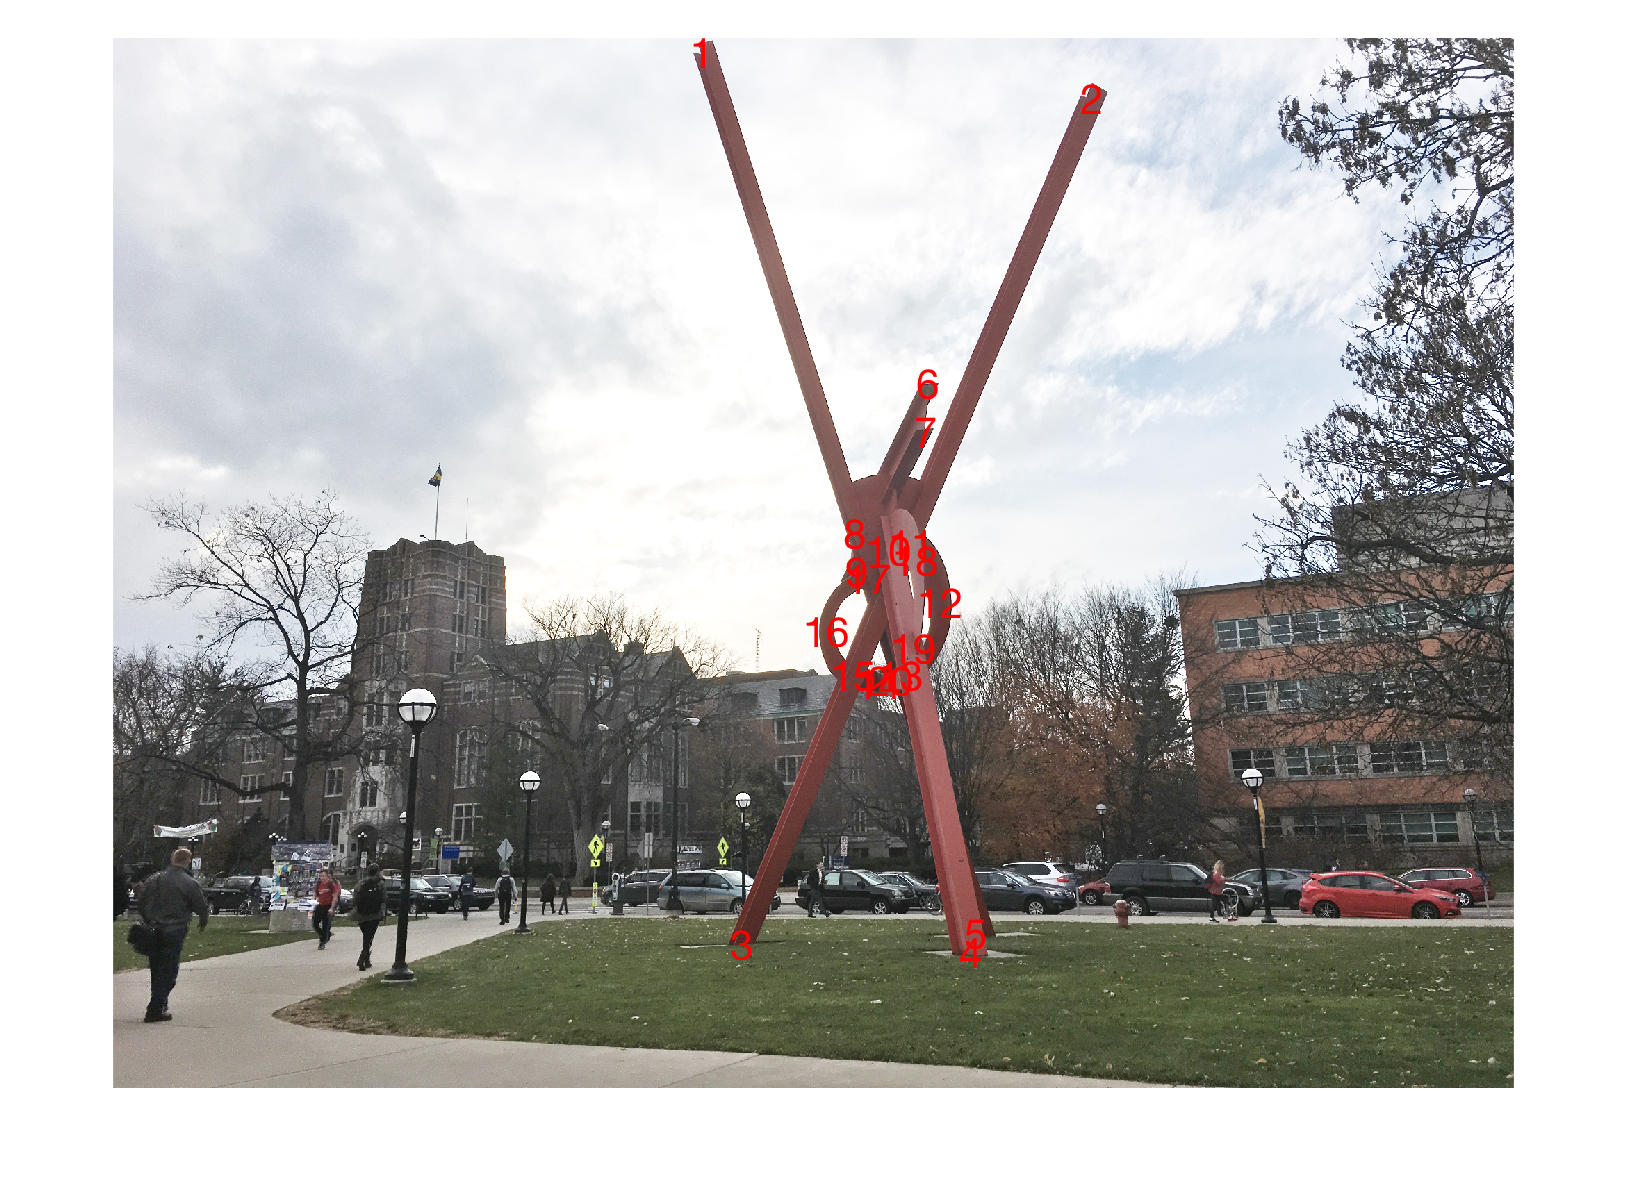
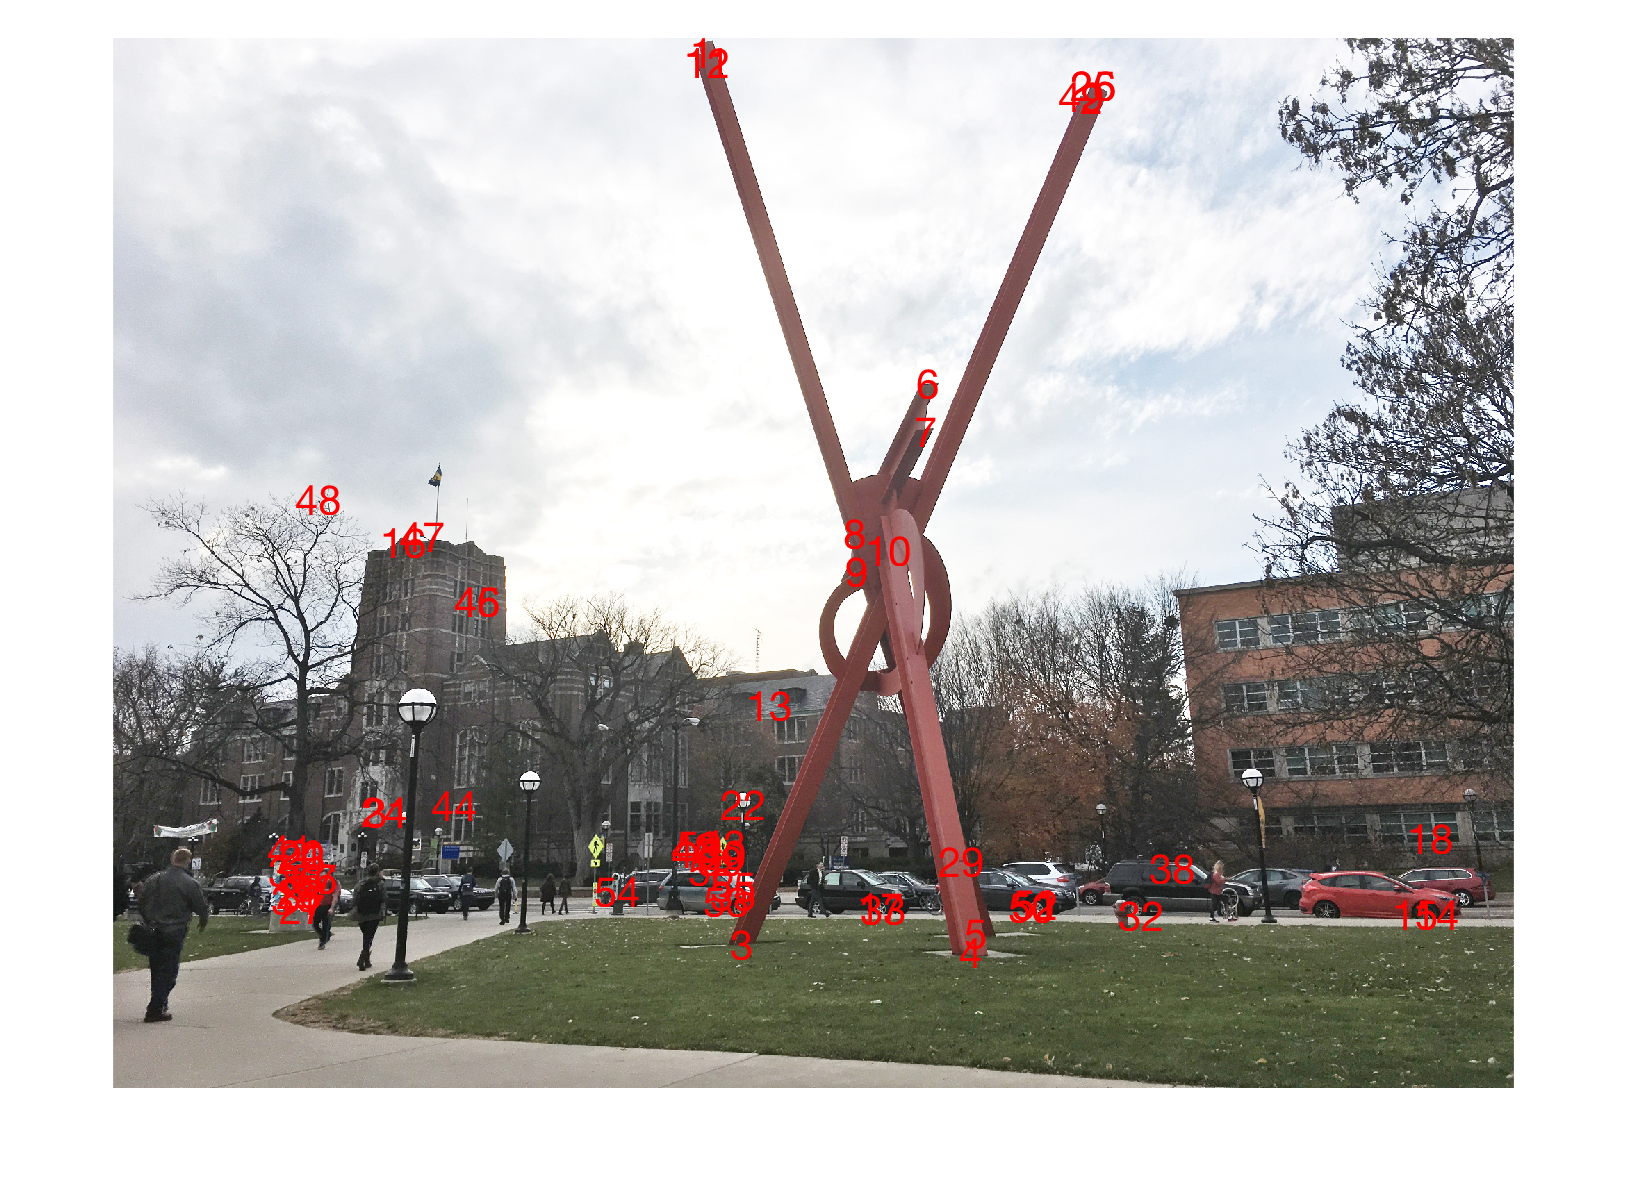
coloring done

diff --git a/visualize_orion.m b/visualize_orion.m
@@ -1,4 +1,4 @@
-function visualize_orion(real_X,M)
+function visualize_orion(real_X,M,data_spec,color_points)
 %VISUALIZE Summary of this function goes here
 %   Detailed explanation goes here
     f = figure;
@@ -6,22 +6,24 @@ function visualize_orion(real_X,M)
     l = info.lines_to_draw;
     global plot_cell;
     plot_cell = cell(length(real_X) + length(l),1);
-    fprintf('In vis\n');
-    redraw(real_X,M)
+    global expanded_color
+    expanded_color=expand_color(color_points,data_spec,real_X);
+    
+    redraw(real_X,M,data_spec);
     hold off;
     
     global theta;
     theta = zeros(3,1);
     uicontrol(f,'Style','slider','Min',-180,'Max',180,'Value',0,...
                 'SliderStep',[0.05 0.2],'Position',...
-                [30, 20, 30, 500], 'Callback', {@sliderx, real_X,M});
+                [30, 20, 30, 500], 'Callback', {@sliderx, real_X,M,data_spec});
     
     uicontrol(f,'Style','slider','Min',-180,'Max',180,'Value',0,...
                 'SliderStep',[0.05 0.2], 'Position',...
-                [65, 20, 30, 500], 'Callback', {@slidery, real_X,M});            
+                [65, 20, 30, 500], 'Callback', {@slidery, real_X,M,data_spec});            
     uicontrol(f,'Style','slider','Min',-180,'Max',180,'Value',0,...
                 'SliderStep',[0.05 0.2], 'Position',...
-                [100, 20, 30, 500], 'Callback', {@sliderz, real_X,M}); 
+                [100, 20, 30, 500], 'Callback', {@sliderz, real_X,M,data_spec}); 
             
             
 end

diff --git a/redraw.m b/redraw.m
@@ -1,4 +1,4 @@
-function plot_cell=redraw(real_X,M)
+function redraw(real_X,M,data_spec)
 %close all
 %plot_cell{1} = scatter3(real_X(1,:),real_X(2,:),real_X(3,:));
 global plot_cell;
@@ -25,8 +25,9 @@ for i=1:length(lines_to_draw)
     l=[real_X(:,lines_to_draw(1,i)),real_X(:,lines_to_draw(2,i))];
     plot_cell{i} = line(l(1,:),l(2,:),l(3,:),'LineWidth',4,'Color','r');
 end
+global expanded_color
 for j=1:length(real_X)
-    plot_cell{j+length(lines_to_draw)} = scatter3(real_X(1,j),real_X(2,j),real_X(3,j));
+    plot_cell{j+length(lines_to_draw)} = scatter3(real_X(1,j),real_X(2,j),real_X(3,j),15,expanded_color(j,:),'filled');
     hold on
 end
 meadow_base=[];
@@ -42,6 +43,4 @@ end
 %     fill3(c(1,:),c(2,:),c(3,:),'g');
 % end
 hold off;
-fprintf('In redraw\n');
-plot_cell
 end

diff --git a/sliderx.m b/sliderx.m
@@ -1,18 +1,10 @@
-function plot_cell=sliderx(source, event, real_X,M)
+function sliderx(source, event, real_X,M,data_spec)
 %SLIDERX Summary of this function goes here
 %   Detailed explanation goes here
     global theta;
     theta(1) = source.Value;
     w_x = rotxd(theta(1)) * rotyd(theta(2)) * rotzd(theta(3)) *real_X;
-    info = draw_line_orion();
-    l = info.lines_to_draw;
-%     for i=1:length(plot_cell)
-%         fprintf('deleting')
-%         plot_cell{i}
-%         %delete(plot_cell{i});
-%     end
-    %plot_cell = cell(length(real_X) + length(l),1);
-    redraw(w_x,M);
+    redraw(w_x,M,data_spec);
     
 end
 

diff --git a/slidery.m b/slidery.m
@@ -1,16 +1,10 @@
-function plot_cell=slidery( source, event, real_X,M)
+function slidery( source, event, real_X,M,data_spec)
 %SLIDERY Summary of this function goes here
 %   Detailed explanation goes here
     global theta;
     theta(2) = source.Value;
     w_x = rotxd(theta(1)) * rotyd(theta(2)) * rotzd(theta(3)) *real_X;
-    info = draw_line_orion();
-    l = info.lines_to_draw;
-%     for i=1:length(plot_cell)
-%         delete(plot_cell{i});
-%     end
-    %plot_cell = cell(length(real_X) + length(l),1);
-    redraw(w_x,M);
+    redraw(w_x,M,data_spec);
     
 end
 

diff --git a/sliderz.m b/sliderz.m
@@ -1,16 +1,10 @@
-function plot_cell=sliderz( source, event, real_X, M)
+function sliderz( source, event, real_X, M,data_spec)
 %SLIDERZ Summary of this function goes here
 %   Detailed explanation goes here
     global theta;
     theta(3) = source.Value;
     w_x = rotxd(theta(1)) * rotyd(theta(2)) * rotzd(theta(3)) *real_X;
-    info = draw_line_orion();
-    l = info.lines_to_draw;
-%     for i=1:length(plot_cell)
-%         delete(plot_cell{i});
-%     end
-    %plot_cell = cell(length(real_X) + length(l),1);
-    redraw(w_x,M);
+    redraw(w_x,M,data_spec);
 
 end
 

diff --git a/expand_color.m b/expand_color.m
@@ -1,0 +1,16 @@
+function ret=expand_color(color_points,data_spec,real_X)
+
+ret=real_X'*0;
+cut=data_spec.common_points_num;
+color_cell_count=1;
+for i=1:data_spec.view
+    for j=1:data_spec.view
+        if i<j && data_spec.double_match(i,j)>0
+            for k=1:data_spec.double_match(i,j)
+                ret(cut+k,:)=color_points{color_cell_count}(k,:);
+            end
+            color_cell_count=color_cell_count+1;
+            cut=cut+data_spec.double_match(i,j);
+        end
+    end
+end

diff --git a/projective_test.m b/projective_test.m
@@ -1,7 +1,8 @@
 clear all; clc;close all
 include_sift=false;
 %%%%%%%%%%%%%%%%%%%%%%%%%%%%%%%%%%
-load('orion_10_common_11_view.mat')
+%load('orion_10_common_11_view.mat')
+load('bk/common_points_color.mat')
 %%%%%%%%%%%%%%%%%%%%%%%%%%%
 % step 0: common data for affine and projective
 data_spec=struct('double_match',double_match,'view',view,'common_points_num',common_points_num);
